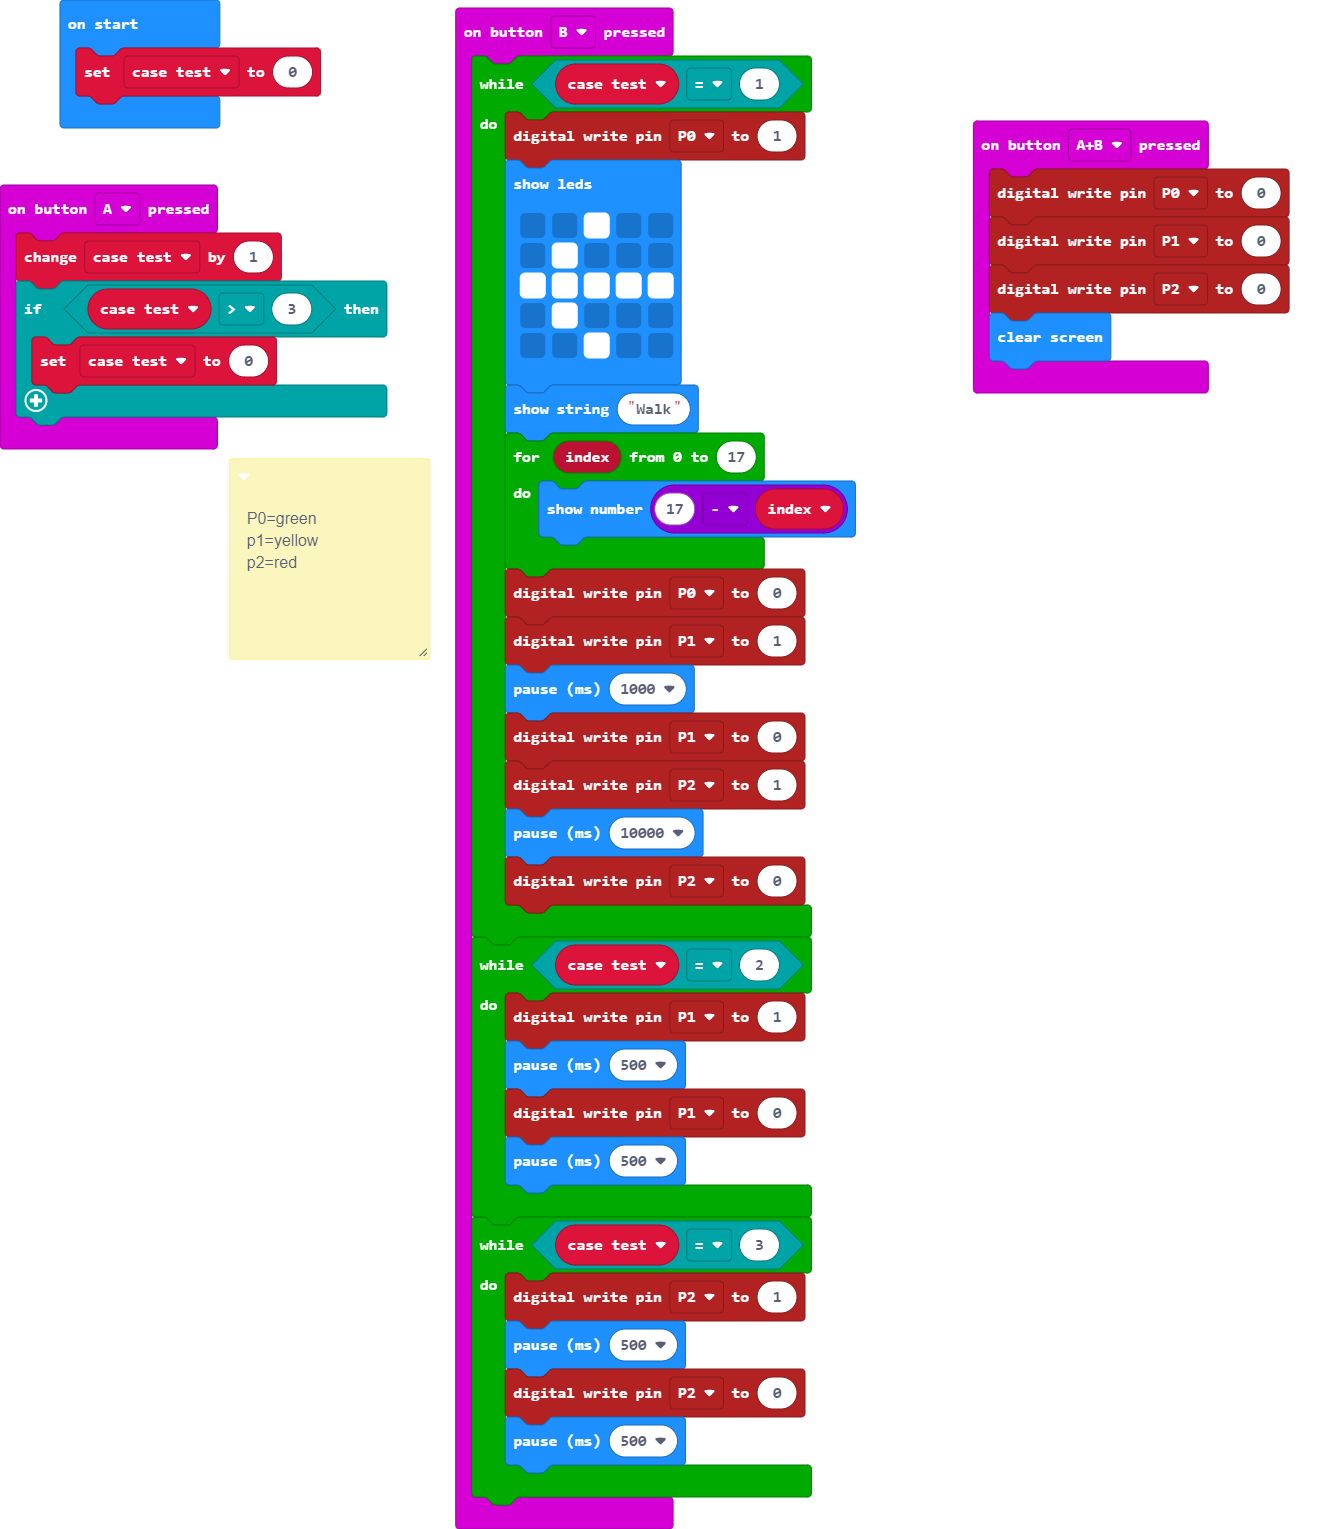
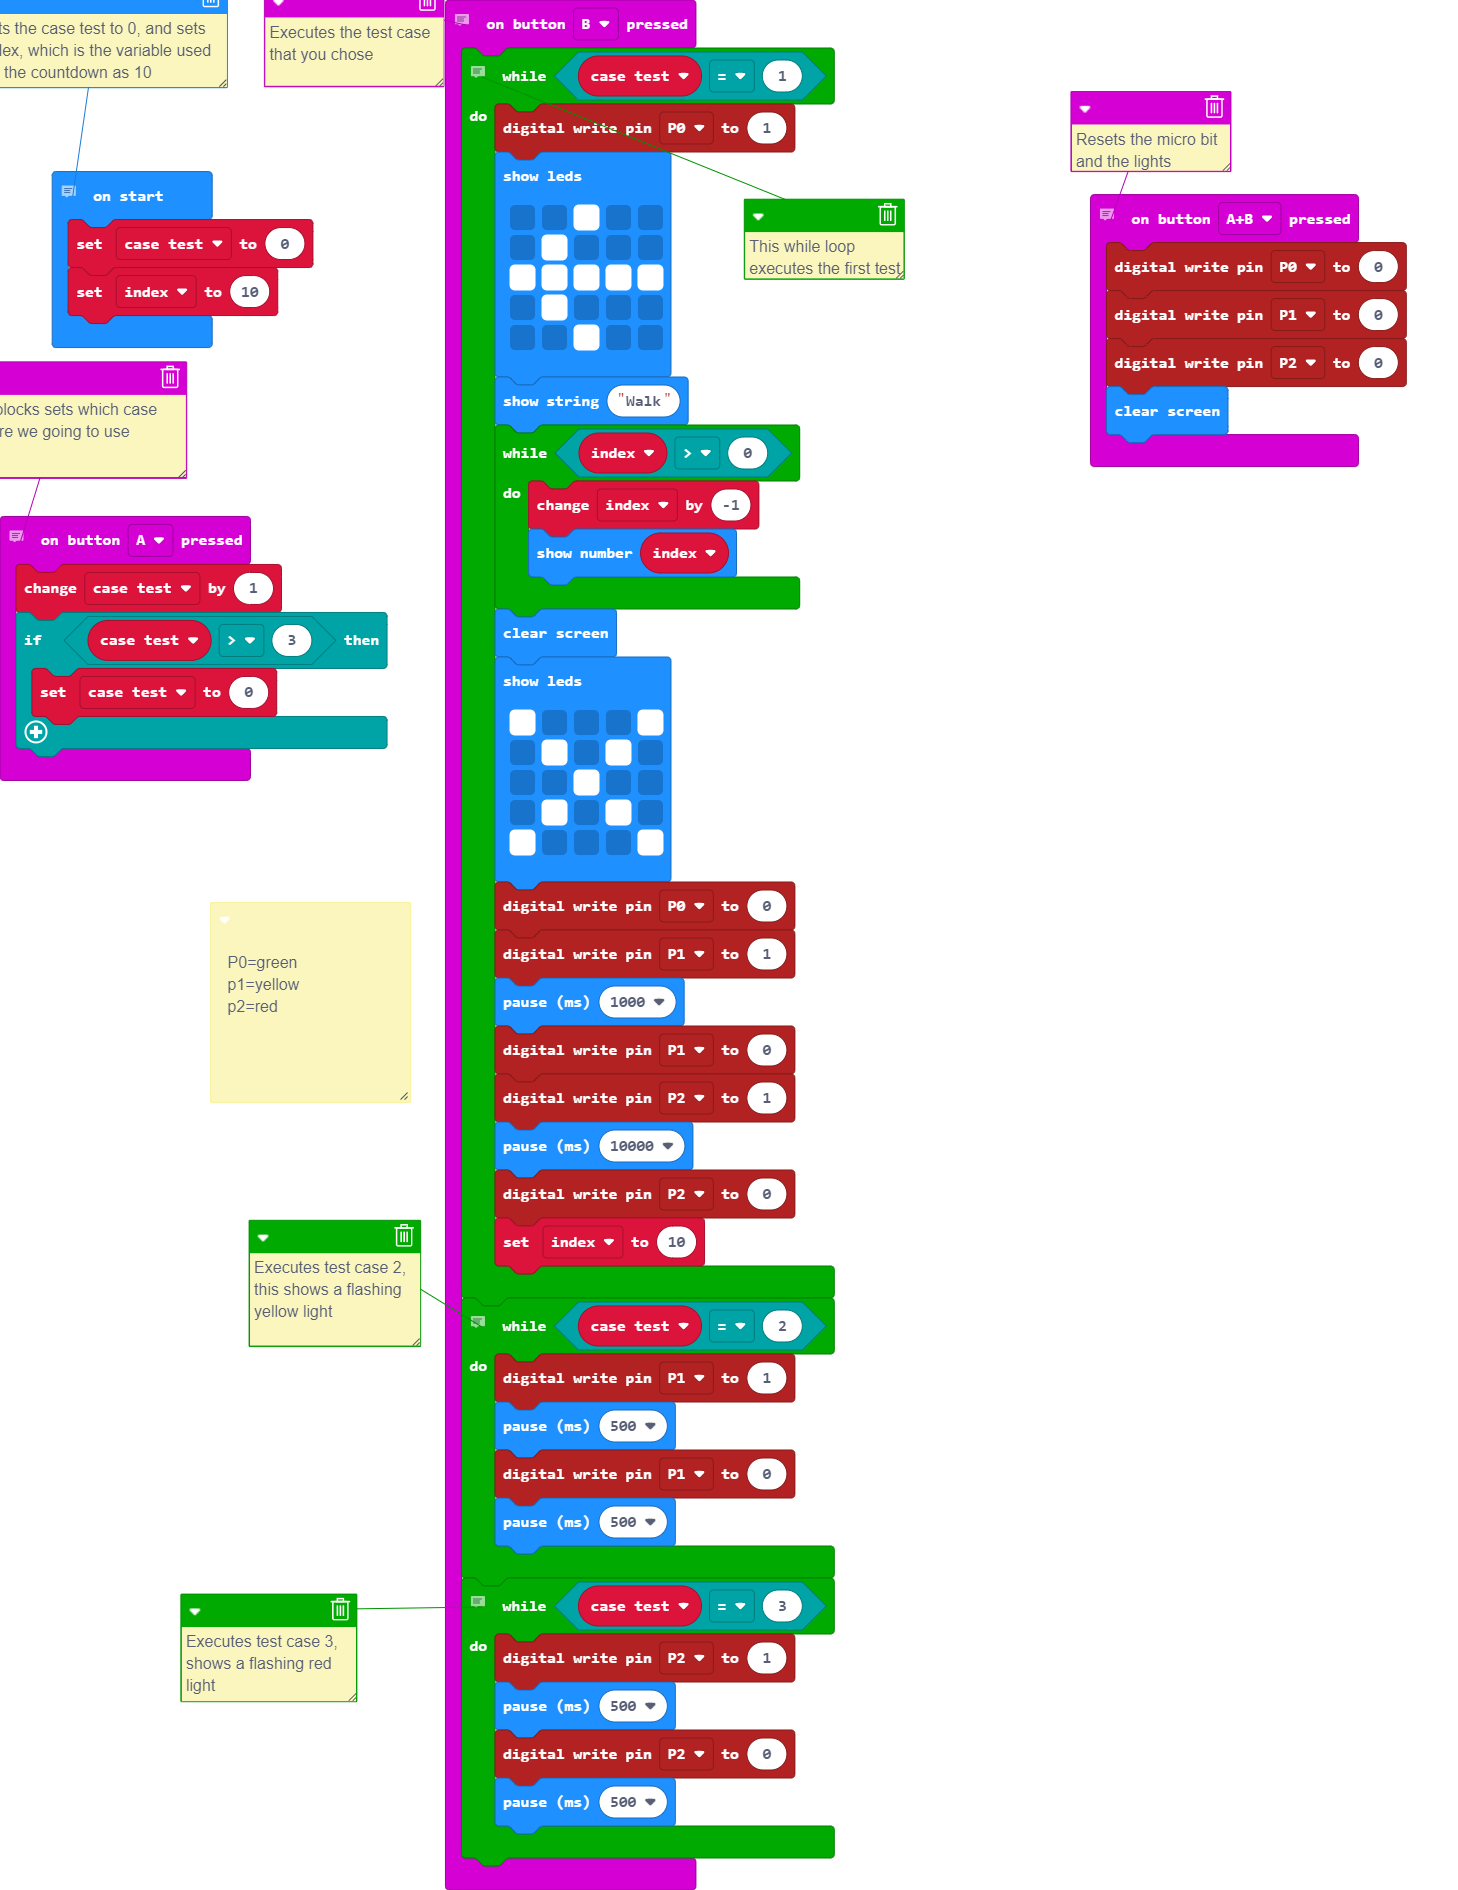
Update main.blocks, main.ts

diff --git a/main.ts b/main.ts
@@ -5,19 +5,23 @@
  * 
  * p2=red
  */
+// This blocks sets which case test are we going to use
 input.onButtonPressed(Button.A, function () {
     case_test += 1
     if (case_test > 3) {
         case_test = 0
     }
 })
+// Resets the micro bit and the lights
 input.onButtonPressed(Button.AB, function () {
     pins.digitalWritePin(DigitalPin.P0, 0)
     pins.digitalWritePin(DigitalPin.P1, 0)
     pins.digitalWritePin(DigitalPin.P2, 0)
     basic.clearScreen()
 })
+// Executes the test case that you chose
 input.onButtonPressed(Button.B, function () {
+    // This while loop executes the first test case which shows at first the green light, then the left turn, then the Walk sign, and then the countdown for the pedestrians
     while (case_test == 1) {
         pins.digitalWritePin(DigitalPin.P0, 1)
         basic.showLeds(`
@@ -28,9 +32,18 @@ input.onButtonPressed(Button.B, function () {
             . . # . .
             `)
         basic.showString("Walk")
-        for (let index = 0; index <= 17; index++) {
-            basic.showNumber(17 - index)
+        while (index > 0) {
+            index += -1
+            basic.showNumber(index)
         }
+        basic.clearScreen()
+        basic.showLeds(`
+            # . . . #
+            . # . # .
+            . . # . .
+            . # . # .
+            # . . . #
+            `)
         pins.digitalWritePin(DigitalPin.P0, 0)
         pins.digitalWritePin(DigitalPin.P1, 1)
         basic.pause(1000)
@@ -38,13 +51,16 @@ input.onButtonPressed(Button.B, function () {
         pins.digitalWritePin(DigitalPin.P2, 1)
         basic.pause(10000)
         pins.digitalWritePin(DigitalPin.P2, 0)
+        index = 10
     }
+    // Executes test case 2, this shows a flashing yellow light
     while (case_test == 2) {
         pins.digitalWritePin(DigitalPin.P1, 1)
         basic.pause(500)
         pins.digitalWritePin(DigitalPin.P1, 0)
         basic.pause(500)
     }
+    // Executes test case 3, shows a flashing red light
     while (case_test == 3) {
         pins.digitalWritePin(DigitalPin.P2, 1)
         basic.pause(500)
@@ -52,5 +68,8 @@ input.onButtonPressed(Button.B, function () {
         basic.pause(500)
     }
 })
+// sets the case test to 0, and sets index, which is the variable used for the countdown as 10
+let index = 0
 let case_test = 0
 case_test = 0
+index = 10
